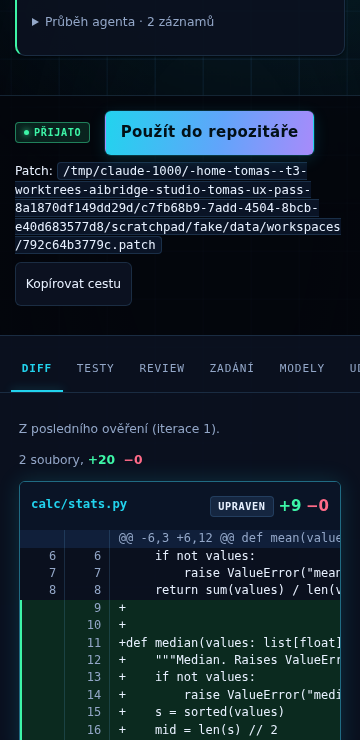
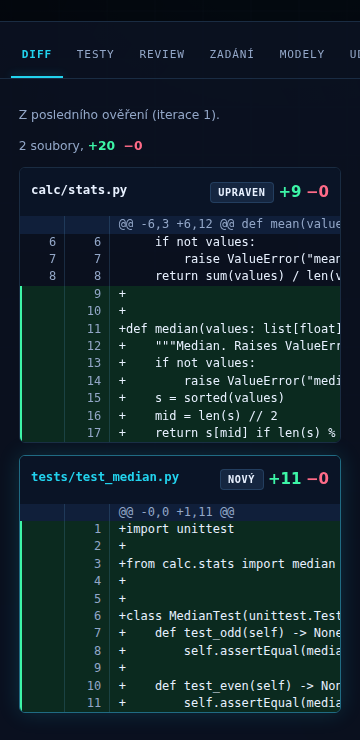
Address review: steadier phone test, scroll the panel top into view
- The phone E2E waits until the run settles; new thread items scroll the
  page and could move what it checks.
- The list rule moves into the later phone media block, where flex: none
  actually applies, and is capped at min(30vh, 11rem).
- Opening the panel scrolls its top into view and focuses without a
  second scroll, so every browser lands the same way.
- The audit notes the live-run auto-scroll (F4b) and the taller phone
  sidebar and landscape case (F8) as follow-ups.

diff --git a/frontend/src/components/Inspector.tsx b/frontend/src/components/Inspector.tsx
@@ -188,13 +188,19 @@ interface InspectorProps {
 export function Inspector({ detail, diffRequest = 0, openRequest = 0 }: InspectorProps) {
   const [tab, setTab] = useState<Tab>("diff");
   const diffTab = useRef<HTMLButtonElement>(null);
+  const panel = useRef<HTMLElement>(null);
   useEffect(() => { if (diffRequest) { setTab("diff"); diffTab.current?.focus(); } }, [diffRequest]);
-  // Below 1100 px the inspector sits under the whole thread; focusing its tab scrolls it into
-  // view, so opening it never looks like a dead button. The panel always opens on Diff.
-  useEffect(() => { if (openRequest) diffTab.current?.focus(); }, [openRequest]);
+  // Below 1100 px the inspector sits under the whole thread: bring its top into view (the same
+  // in every browser) and move focus in, so opening it never looks like a dead button. Beside
+  // the thread it is already in view and nothing scrolls. The panel always opens on Diff.
+  useEffect(() => {
+    if (!openRequest) return;
+    panel.current?.scrollIntoView({ block: "start" });
+    diffTab.current?.focus({ preventScroll: true });
+  }, [openRequest]);
   const verify = latestOutput<VerifyOutput>(detail.steps, "verify");
   return (
-    <aside className="inspector" aria-label="Inspektor">
+    <aside ref={panel} className="inspector" aria-label="Inspektor">
       <div className="tabs" role="tablist">
         {TABS.map((t, index) => (
           <button

diff --git a/frontend/e2e/phone.spec.ts b/frontend/e2e/phone.spec.ts
@@ -12,6 +12,11 @@ test("phone: the task list shows tasks and Podrobnosti brings the details into v
   await page.locator(".repo-field input").fill(REPO);
   await page.getByRole("button", { name: "Spustit" }).click();
   await expect(page).toHaveURL(/#\/run\//);
+  // Wait until the run settles (the draft waits for approval, or the run is done): until then
+  // each new thread item scrolls the page to the end and would move what this test looks at.
+  await expect(
+    page.getByRole("button", { name: /^(Schválit a plánovat|Použít do repozitáře|Zkusit fázi znovu)$/ }).first(),
+  ).toBeVisible({ timeout: 90_000 });
 
   // The run is listed and can be tapped: not squeezed under the sidebar footer.
   const item = page.locator(".run-item.selected");
@@ -24,5 +29,5 @@ test("phone: the task list shows tasks and Podrobnosti brings the details into v
   // Below 1100 px the inspector sits under the thread; opening it must bring it into view.
   await page.evaluate(() => window.scrollTo(0, 0));
   await page.getByRole("button", { name: "Podrobnosti", exact: true }).click();
-  await expect(page.locator(".inspector")).toBeInViewport();
+  await expect(page.getByRole("tablist").first()).toBeInViewport({ ratio: 1 });
 });

diff --git a/frontend/src/styles.css b/frontend/src/styles.css
@@ -309,11 +309,6 @@ ul.plain li {
     border-right: none !important;
     border-bottom: 1px solid var(--border);
   }
-  /* The list gets its own room (about five tasks) instead of what is left of a capped sidebar. */
-  .run-list {
-    flex: none;
-    max-height: 30vh;
-  }
 }
 
 /* Sidebar */
@@ -2188,6 +2183,12 @@ td .meter {
 }
 
 @media (max-width: 760px) {
+  /* The list gets its own room (three to four tasks) instead of what was left of a sidebar
+     capped at 45vh, which was 14 px. Kept short so the page below still starts high. */
+  .run-list {
+    flex: none;
+    max-height: min(30vh, 11rem);
+  }
   .thread-head,
   .thread-body,
   .thread-foot {

diff --git a/docs/ux-audit-2026-11.md b/docs/ux-audit-2026-11.md
@@ -39,10 +39,11 @@ L = needs a design decision or backend/prompt work.
 | F2 | **A run can be started with no gateway.** With neither OmniRoute nor Refrakt answering, Spustit creates a run that fails at once ("drafting by autopilot failed: OmniRoute is not reachable: OmniRoute not reachable at …"). The composer only says "OmniRoute neběží" in small print and never what to do. | Fresh install: run `00b61d4c6a05` failed after 64 ms. | High | S |
 | F3 | **Project pick leaves Repozitář empty on Linux.** `Vault.repo_hint` only matches Windows paths, so on hub2 the user types the full path by hand. The placeholder `C:\cesta\k\repu` is also Windows-only. Already listed as open in the 2026-11-16 audit; it keeps three Playwright tests red on Linux. | Note says `Repozitář: /tmp/…/calc`; field stays empty after picking "Calc". | High (hub use) | S |
 | F4 | **Podrobnosti does nothing visible on a phone or narrow window.** Below 1100 px the inspector is stacked under the thread; at 360 px it opens ~2,900 px below the button. (Diff works: it focuses the Diff tab, which scrolls.) | 360 × 740, scrolled to the top: after tapping Podrobnosti `scrollY` stays 0 and `.inspector` top = 2,942 px; after Diff it is in view. | High (phone) | S |
+| F4b | **While a run works, the thread pulls the page back.** Each new thread item scrolls to the thread's end, so on a phone the opened inspector is pulled away every few seconds. (Found in review of the F4 fix.) | `Thread.tsx` auto-scroll (`block: "end"`). | Medium (phone) | S |
 | F5 | **Decision reasons are raw English internals with no next step.** Examples seen: "drafting by autopilot failed: OmniRoute is not reachable…", "all lead models failed, are excluded or are cooling down: … (cooldown)", "Review by autopilot: Review must assess every task criterion exactly once; missing or duplicate coverage." The bar then offers Zkusit fázi znovu / Vrátit k opravě / Předat silnějšímu modelu / Opustit with no hint which fits. | Live Refrakt run `d3baac969396` (the reviewer answered in English, so criteria did not match exactly). | High | M |
 | F6 | **Sidebar status says the gateway is down when Refrakt works.** With only Refrakt, the sidebar shows a red "OmniRoute" dot and no Refrakt at all; its tooltip is the exception name "ConnectError". The composer status line does show "Refrakt běží". | Refrakt-only instance, sidebar footer. | Medium | S |
 | F7 | **Wrong Czech plurals.** "1 záznamů", "2 záznamů", "3 nástrojů", "2 změněných souborů", "Groq: 1 dotazů dnes", "1 úkolů", "1 tvých rozhodnutí"; `DiffView` would print "0 soubory". Three separate ad-hoc plural rules exist. | Thread, Settings → Dnes, Přehled. | Medium (every run screen) | S |
-| F8 | **Phone: the sidebar fills the first screen.** At 360 px the composer heading starts at y 333 and Spustit is below the fold; on a run, the header starts below the sidebar too. | 360 × 740 screenshots. | Medium | M |
+| F8 | **Phone: the sidebar fills the first screen.** At 360 px the composer heading starts at y 333 and Spustit is below the fold; on a run, the header starts below the sidebar too. | 360 × 740 screenshots. After F1 the sidebar also holds three to four tasks, so it is ~80 px taller. Landscape phones wider than 760 px get the desktop sidebar, where the list shrinks to ~25 px again. | Medium | M |
 | F9 | **Settings never mention Refrakt unless it is already set up.** There is no "Brána" section: how to connect Refrakt (`REFRAKT_GATEWAY_TOKEN`) is only in the README, and each model row repeats "OmniRoute nedostupný" nine times. | Settings on the fresh install. | Medium | M |
 | F10 | **Model-written text stays English in a Czech UI.** Plan summary, worker summary and review reasoning came back in English; the plan line mixes "Složitost: trivial · doporučený implementátor: worker". | Live run `d3baac969396`. | Medium | L (prompts) |
 
